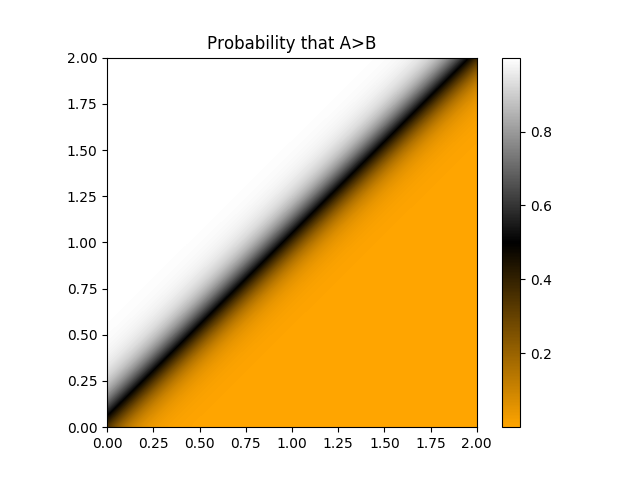
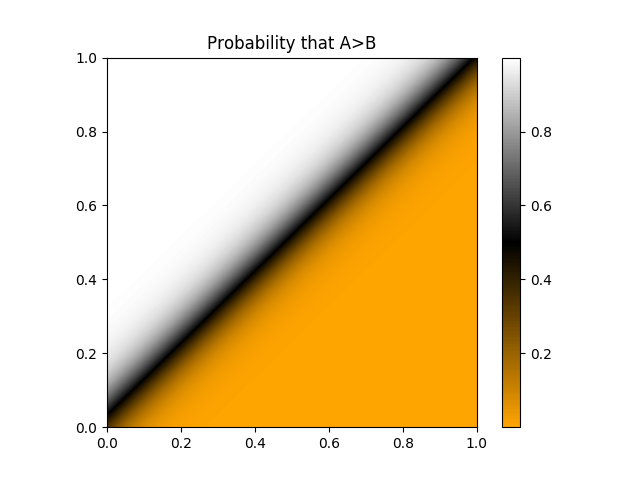
Update plots

diff --git a/nnn/examples/a_greater_than_b.py b/nnn/examples/a_greater_than_b.py
@@ -32,11 +32,27 @@ x_test = np.random.rand(n_samples_test, 2)
 y_train = np.array([int(x[0] > x[1]) for x in x_train])
 y_test = np.array([int(x[0] > x[1]) for x in x_test])
 
-plot_data(x_train=x_train, y_train=y_train, x_test=x_test, y_test=y_test, init=0, end=1, title='Data plot. Star points are test samples', save_path='a_greater_than_b_data.png')
+plot_data(x_train=x_train,
+          y_train=y_train,
+          x_test=x_test,
+          y_test=y_test,
+          init=0,
+          end=1,
+          xlabel='A',
+          ylabel='B',
+          title='Data plot. Star points are test samples',
+          save_path='a_greater_than_b_data.png')
 
-nn = NeuralNetwork(input_dim=2, output_dim=1)
-nn.add_dense(output_dim=1, activation=Sigmoid(), initializer=GaussianInitializer(gaussian_mean=0.0, gaussian_std=0.3))
-nn.train(x=x_train, y=y_train, objective=CrossEntropy(), epochs=100, lr=0.3)
+nn = NeuralNetwork(input_dim=2,
+                   output_dim=1)
+nn.add_dense(output_dim=1,
+             activation=Sigmoid(),
+             initializer=GaussianInitializer(gaussian_mean=0.0, gaussian_std=0.3))
+nn.train(x=x_train,
+         y=y_train,
+         objective=CrossEntropy(),
+         epochs=100,
+         lr=0.3)
 
 print('Train data')
 for i in range(n_samples_train):
@@ -48,8 +64,28 @@ for i in range(n_samples_test):
     f = nn.predict(x_test[i])
     print('Pred: {0:2f}. Label: {1:2d}'.format(f[0], y_test[i]))
 
-plot_boundaries_2d(nn, resolution=100, init=0.0, end=2.0, title='Probability that A>B', save_path='a_greater_than_b_boundaries.png')
+plot_boundaries_2d(nn,
+                   resolution=100,
+                   init=0.0,
+                   end=1.0,
+                   xlabel='A',
+                   ylabel='B',
+                   title='Probability that A>B',
+                   save_path='a_greater_than_b_boundaries.png')
 
-loss_g, w1, w2 = loss_grid_nn(nn=nn, objective=CrossEntropy(), x_train=x_train, y_train=y_train, resolution=20,
-                           w1_init=-5, w1_end=5, w2_init=-5, w2_end=5)
-plot_loss_function_3d(loss_grid=loss_g, w1=w1, w2=w2, title='Loss function', save_path=None)
+loss_g, w1, w2 = loss_grid_nn(nn=nn,
+                              objective=CrossEntropy(),
+                              x_train=x_train,
+                              y_train=y_train,
+                              resolution=20,
+                              w1_init=-5,
+                              w1_end=5,
+                              w2_init=-5,
+                              w2_end=5)
+plot_loss_function_3d(loss_grid=loss_g,
+                      w1=w1,
+                      w2=w2,
+                      xlabel = 'w1',
+                      ylabel = 'w2',
+                      title='Loss function',
+                      save_path=None)

diff --git a/nnn/examples/a_approx_b.py b/nnn/examples/a_approx_b.py
@@ -30,13 +30,31 @@ x_test = np.random.rand(n_samples_test, 2)
 y_train = np.array([int(abs(x[0]-x[1]) > 0.2) for x in x_train])
 y_test = np.array([int(abs(x[0]-x[1]) > 0.2) for x in x_test])
 
-plot_data(x_train=x_train, y_train=y_train, x_test=x_test, y_test=y_test, init=0, end=1, title='Data plot. Star points are test samples', save_path='a_aprox_b_data.png')
+plot_data(x_train=x_train,
+          y_train=y_train,
+          x_test=x_test,
+          y_test=y_test,
+          init=0,
+          end=1,
+          xlabel='A',
+          ylabel='B',
+          title='Data plot. Star points are test samples',
+          save_path='a_approx_b_data.png')
 
-nn = NeuralNetwork(input_dim=2, output_dim=1)
-# Try commenting the next line: the neural network won't be able to classify the samples, because data isn't linearly separable. Thus, we need a hidden layer.
-nn.add_dense(output_dim=2, activation=Sigmoid(), initializer=GaussianInitializer(gaussian_mean=0.0, gaussian_std=1))
-nn.add_dense(output_dim=1, activation=Sigmoid(), initializer=GaussianInitializer(gaussian_mean=0.0, gaussian_std=1))
-nn.train(x=x_train, y=y_train, objective=CrossEntropy(), epochs=100, lr=0.3)
+nn = NeuralNetwork(input_dim=2,
+                   output_dim=1)
+# Try commenting the next instruction: the neural network won't be able to classify the samples, because data isn't linearly separable. Thus, we need a hidden layer.
+nn.add_dense(output_dim=2,
+             activation=Sigmoid(),
+             initializer=GaussianInitializer(gaussian_mean=0.0, gaussian_std=1))
+nn.add_dense(output_dim=1,
+             activation=Sigmoid(),
+             initializer=GaussianInitializer(gaussian_mean=0.0, gaussian_std=1))
+nn.train(x=x_train,
+         y=y_train,
+         objective=CrossEntropy(),
+         epochs=100,
+         lr=0.3)
 
 print('Train data')
 for i in range(n_samples_train):
@@ -48,4 +66,11 @@ for i in range(n_samples_test):
     f = nn.predict(x_test[i])
     print('Pred: {0:2f}. Label: {1:2d}'.format(f[0], y_test[i]))
 
-plot_boundaries_2d(nn, resolution=100, init=0.0, end=2.0, title='Probability that |A-B|>0.2', save_path='a_aprox_b_boundaries.png')
+plot_boundaries_2d(nn=nn,
+                   resolution=100,
+                   init=0.0,
+                   end=1.0,
+                   xlabel='A',
+                   ylabel='B',
+                   title='Probability that |A-B|>0.2',
+                   save_path='a_approx_b_boundaries.png')

diff --git a/nnn/utils/plots.py b/nnn/utils/plots.py
@@ -20,7 +20,7 @@ import matplotlib as mpl
 from mpl_toolkits.mplot3d import Axes3D
 
 
-def plot_boundaries_2d(nn, resolution=100, init=0.0, end=2.0, title=None, save_path=None):
+def plot_boundaries_2d(nn, resolution=100, init=0.0, end=1.0, xlabel = 'w1', ylabel = 'w2', title=None, save_path=None):
     print('Plotting boundaries ...')
     a = np.linspace(init, end, resolution)
     b = np.linspace(init, end, resolution)
@@ -37,10 +37,12 @@ def plot_boundaries_2d(nn, resolution=100, init=0.0, end=2.0, title=None, save_p
         plt.title(title)
     if save_path is not None:
         plt.savefig(save_path)
+    plt.xlabel(xlabel)
+    plt.ylabel(ylabel)
     plt.show()
 
 
-def plot_data(x_train, y_train, x_test, y_test, init=0.0, end=2.0, title=None, save_path=None):
+def plot_data(x_train, y_train, x_test, y_test, xlabel = 'A', ylabel = 'B', init=0.0, end=1.0, title=None, save_path=None):
     print('Plotting data ...')
     colors = ['r' if y == 1 else 'b' for y in y_train]
     plt.scatter(x_train[:, 0], x_train[:, 1], marker='o', c=colors)
@@ -54,10 +56,12 @@ def plot_data(x_train, y_train, x_test, y_test, init=0.0, end=2.0, title=None, s
         plt.title(title)
     if save_path is not None:
         plt.savefig(save_path)
+    plt.xlabel(xlabel)
+    plt.ylabel(ylabel)
     plt.show()
 
 
-def plot_loss_function_3d(loss_grid, w1, w2, title=None, save_path=None):
+def plot_loss_function_3d(loss_grid, w1, w2, xlabel = 'w1', ylabel = 'w2', title=None, save_path=None):
     print('Plotting loss function ...')
 
     fig = plt.figure()
@@ -69,6 +73,6 @@ def plot_loss_function_3d(loss_grid, w1, w2, title=None, save_path=None):
         plt.title(title)
     if save_path is not None:
         plt.savefig(save_path)
-    plt.xlabel('w1')
-    plt.ylabel('w2')
+    plt.xlabel(xlabel)
+    plt.ylabel(ylabel)
     plt.show()

diff --git a/nnn/examples/README.md b/nnn/examples/README.md
@@ -20,24 +20,24 @@ Classification boundaries obtained by training a neural network without hidden l
 
 *<p style="text-align: center;">Figure 2: Classifier boundaries for A > B </p>*
 
-## A aprox B (a_aprox_b.py)
+## A approx B (a_approx_b.py)
 With this example we intend to show that a neural network requires hidden layers to classify non-linear separable data. We also aim to explain the intuition behind the inner representations of data that neural networks try to learn.
 
 Let A and B be variables with domain [0,1]. The goal of this example is to determine whether are approximately equal (we say that two variables A and B are approximately equal if abs(A - B) <= 0.2). In other words, we want to build a classifier that outputs 1 when abs(A - B) > 0.2 and 0 otherwise.
 
 The random generated data used in this example is shown next (star points are test samples, while other points are training samples):
 
-![alt text](a_aprox_b_data.png "Train and test data for A aprox B")
+![alt text](a_approx_b_data.png "Train and test data for A approx B")
 
-*<p style="text-align: center;">Figure 3: Train and test data for A aprox B</p>*
+*<p style="text-align: center;">Figure 3: Train and test data for A approx B</p>*
 
 What can we say about linear separability for this dataset?
 
 This dataset **is not** linearly separable, because we can't separate it using a linear model. For example, if we try to classify this dataset using a neural network without hidden layers, we get the next classifier boundaries:
 
-![alt text](a_aprox_b_nohidden_boundaries.png "Classifier boundaries for A aprox B using a neural network without hidden layers")
+![alt text](a_approx_b_nohidden_boundaries.png "Classifier boundaries for A approx B using a neural network without hidden layers")
 
-*<p style="text-align: center;">Figure 4: Classifier boundaries for A aprox B using a neural network without hidden layers</p>*
+*<p style="text-align: center;">Figure 4: Classifier boundaries for A approx B using a neural network without hidden layers</p>*
 
 The neural network can't draw a straight line separating one class for another correctly, although it still tries to find the linear model with the lowest loss.
 
@@ -49,6 +49,6 @@ Understanding why we need inner representations is the key concept of deep neura
 
 You could fold the transparent sheet in such a way that coordinates (0, 1) and (1, 0) happen to meet. Now you can draw a straight line on the transparent sheet that separates one class from another. The resulting inner representation is linearly separable, and that's exactly what a neural network does!
 
-![alt text](a_aprox_b_boundaries.png "Classifier boundaries for A > B")
+![alt text](a_approx_b_boundaries.png "Classifier boundaries for A > B")
 
-*<p style="text-align: center;">Figure 5: Classifier boundaries for A aprox B using a neural network with a hidden layer. This is what we get after unfolding the transparent sheet.</p>*
+*<p style="text-align: center;">Figure 5: Classifier boundaries for A approx B using a neural network with a hidden layer. This is what we get after unfolding the transparent sheet.</p>*
